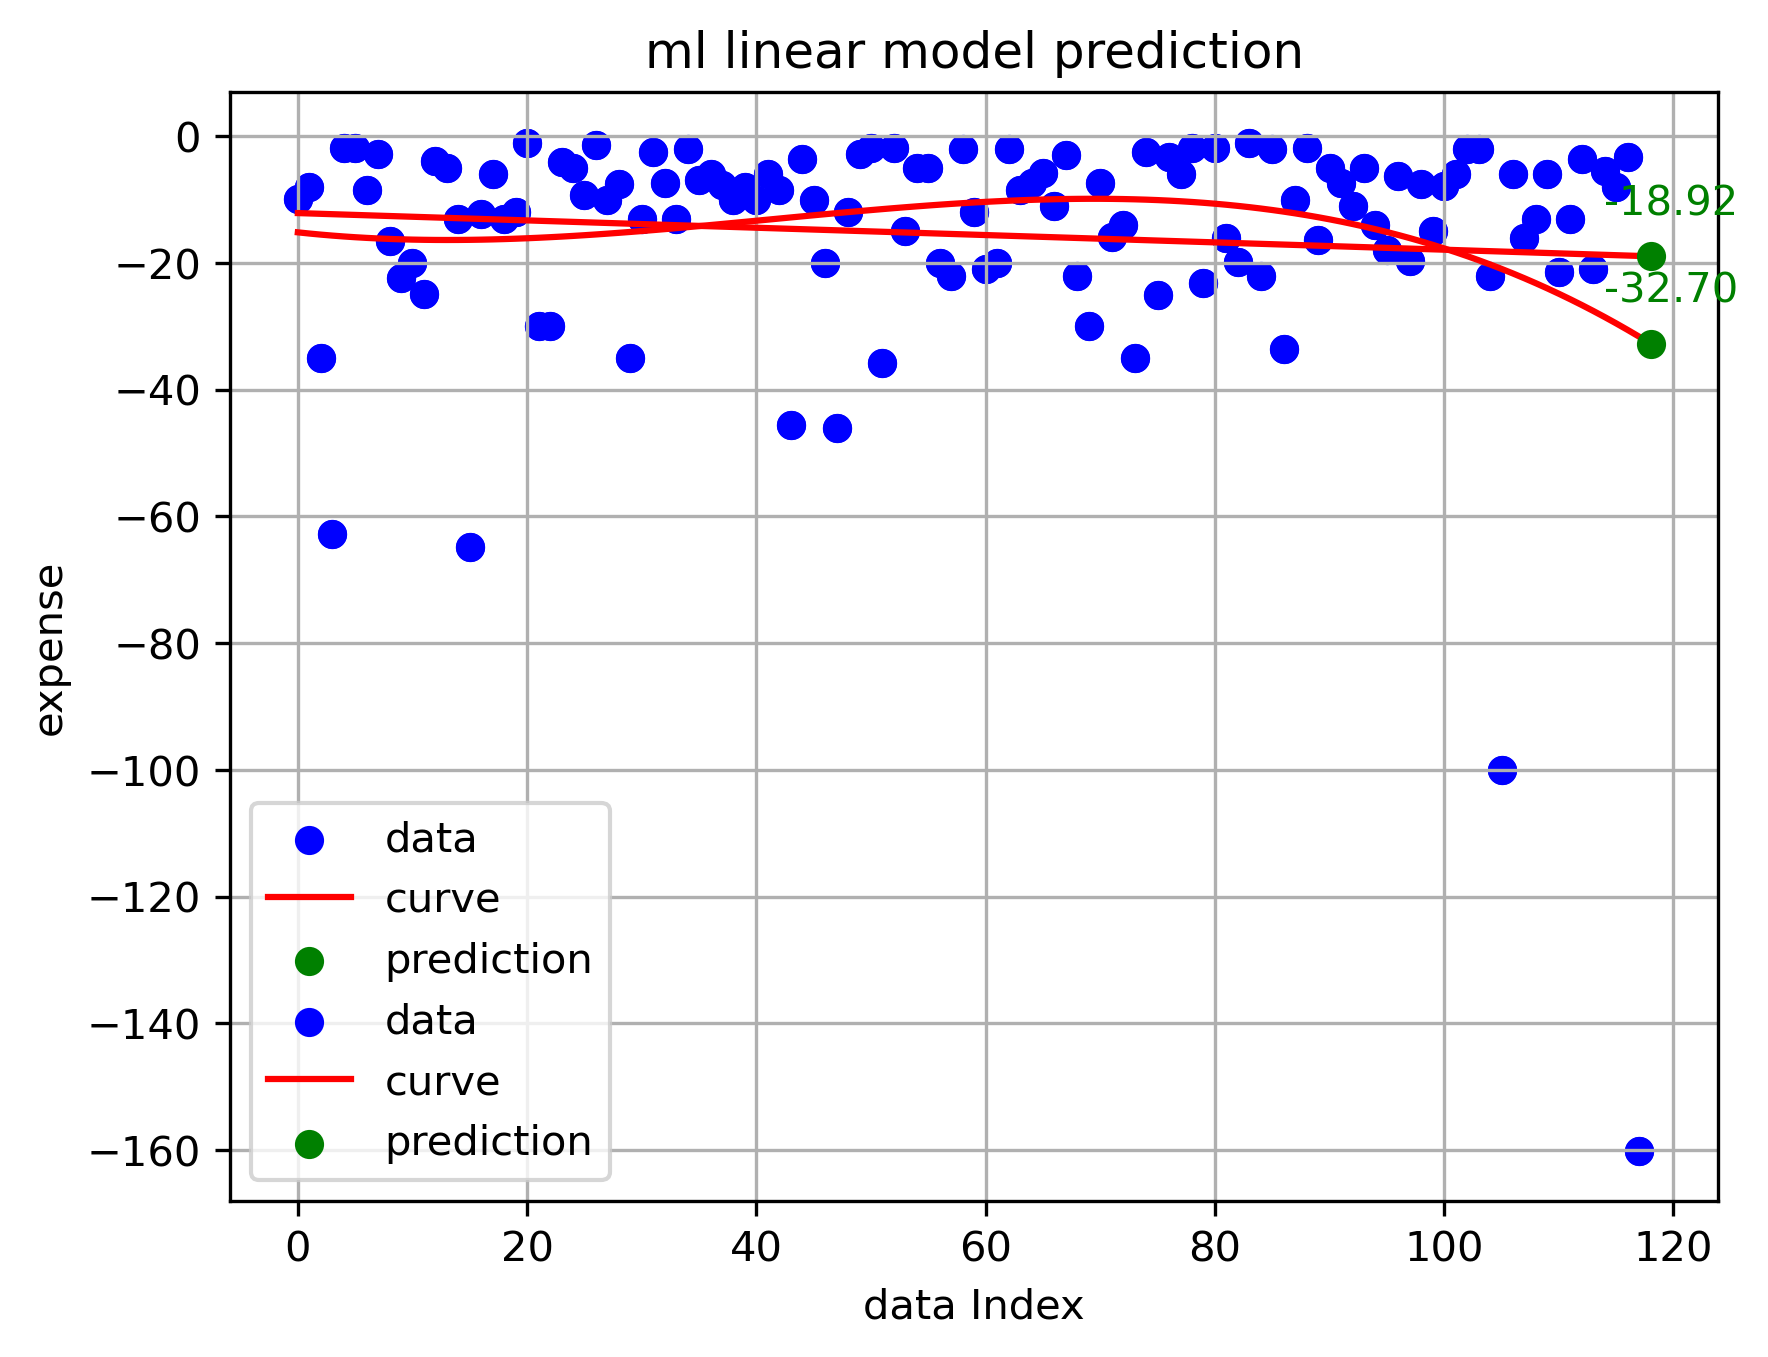
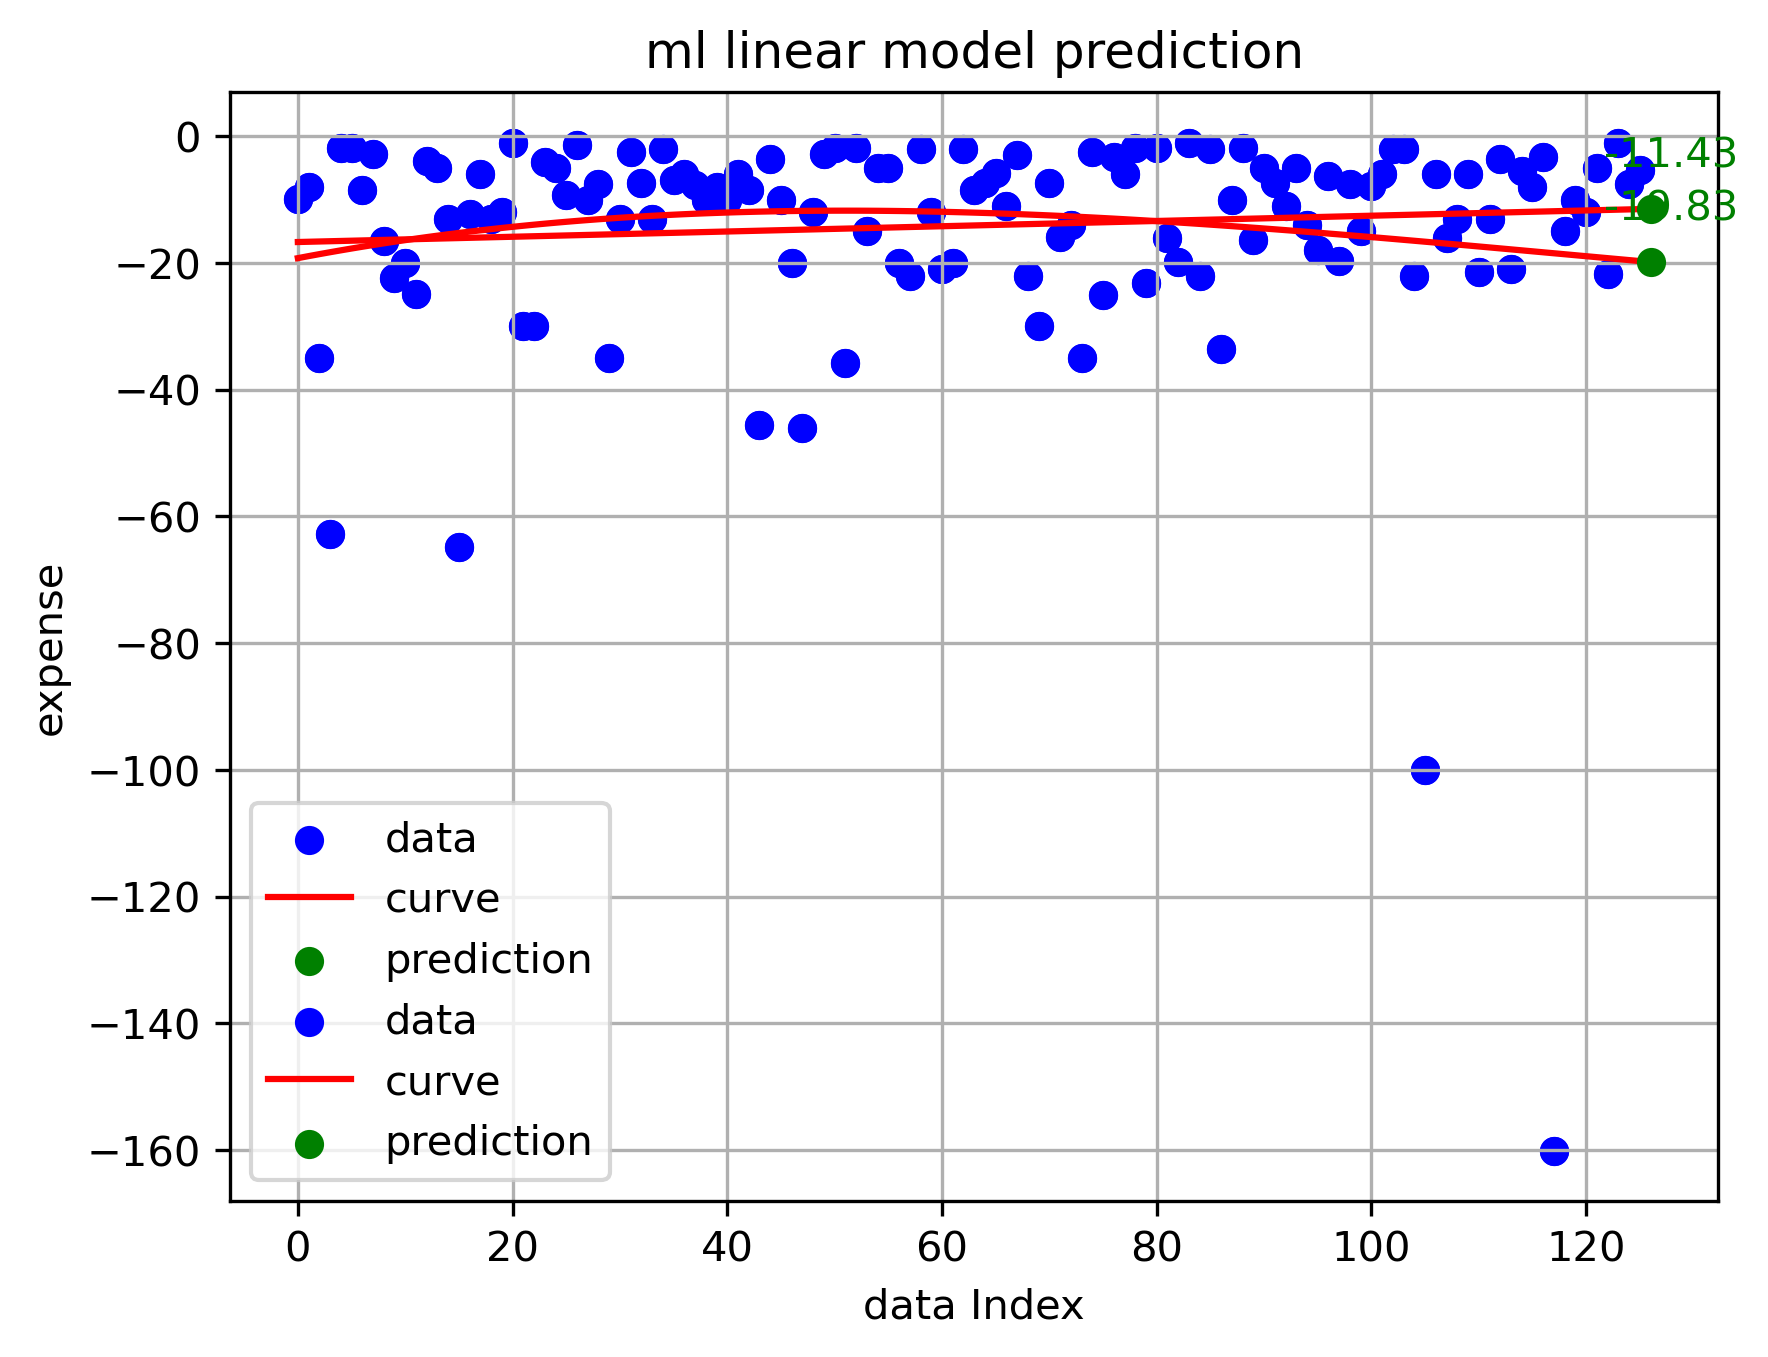
fix: some unclear expression and data update 11.27

diff --git a/ExpenseAnalysis/expenseAnalysis.py b/ExpenseAnalysis/expenseAnalysis.py
@@ -18,7 +18,7 @@ connection = pymysql.connect(
 try:
     # 存储所有模型的预测值
     predictions = []
-
+#三次多项式预测模型
     with connection.cursor() as cursor:
         # 查询数据
         query = "SELECT `金额（可执行）` FROM `table_detail` WHERE `项目` != '小结' AND `金额（可执行）` < 0;"
@@ -69,7 +69,7 @@ try:
             plt.grid(True)
 
             # 保存图片为 PNG 文件
-            plt.savefig("scatter_fit.png", format="png", dpi=300, bbox_inches="tight")
+            plt.savefig("polynomial_prediction.png", format="png", dpi=300, bbox_inches="tight")
 
             # 显示图表
             # plt.show()

diff --git a/Avg&Var/Avg&Var.py b/Avg&Var/Avg&Var.py
@@ -30,7 +30,7 @@ try:
 
     # 查询 2: 日期出现次数统计
     with connection.cursor() as cursor:
-        query = "SELECT `日期` FROM table_detail WHERE `金额（可执行）` < -20 AND NOT `项目` = '小结';"
+        query = "SELECT `日期` FROM table_detail WHERE `金额（可执行）` < -15 AND NOT `项目` = '小结';"
         cursor.execute(query)
         result = cursor.fetchall()
         overspend = [row[0] for row in result]

diff --git a/Avg&Var/result.md b/Avg&Var/result.md
@@ -2,27 +2,32 @@
 
 ## 金额（可执行）数据分析
 
-- 平均值: -63.024
-- 方差: 2017.7012333333337
+- 平均值: -66.89666666666668
+- 方差: 2397.602038461539
 
 ## 日期出现次数统计
 
 | 日期       |   出现次数 |
 |:-----------|-----------:|
 | 2024-10-31 |          2 |
-| 2024-11-01 |          1 |
+| 2024-11-01 |          3 |
 | 2024-11-02 |          3 |
 | 2024-11-03 |          2 |
-| 2024-11-06 |          1 |
+| 2024-11-06 |          2 |
 | 2024-11-07 |          1 |
 | 2024-11-08 |          1 |
-| 2024-11-09 |          2 |
+| 2024-11-09 |          3 |
+| 2024-11-10 |          1 |
 | 2024-11-12 |          1 |
-| 2024-11-13 |          1 |
+| 2024-11-13 |          2 |
 | 2024-11-14 |          2 |
 | 2024-11-15 |          1 |
-| 2024-11-17 |          2 |
-| 2024-11-22 |          2 |
+| 2024-11-16 |          2 |
+| 2024-11-17 |          3 |
+| 2024-11-19 |          1 |
+| 2024-11-20 |          1 |
+| 2024-11-22 |          3 |
 | 2024-11-23 |          1 |
 | 2024-11-24 |          1 |
 | 2024-11-25 |          1 |
+| 2024-11-26 |          1 |

diff --git a/ExpenseAnalysis/model_predictions.md b/ExpenseAnalysis/model_predictions.md
@@ -4,12 +4,12 @@
 ## 预测值列表
 | 序号 | 预测值 |
 | -------- | ----------------------- |
-| 1    | -32.70176              |
-| 2    | -18.92196              |
-| 3    | -96.18120              |
-| 4    | -8.93910              |
+| 1    | -19.82806              |
+| 2    | -11.43469              |
+| 3    | -6.13840              |
+| 4    | -7.93140              |
     
 ## 统计分析
-- **均值**: -39.19
-- **总体方差**: 1154.00
-- **样本方差**: 1538.67
+- **均值**: -11.33
+- **总体方差**: 27.68
+- **样本方差**: 36.91
